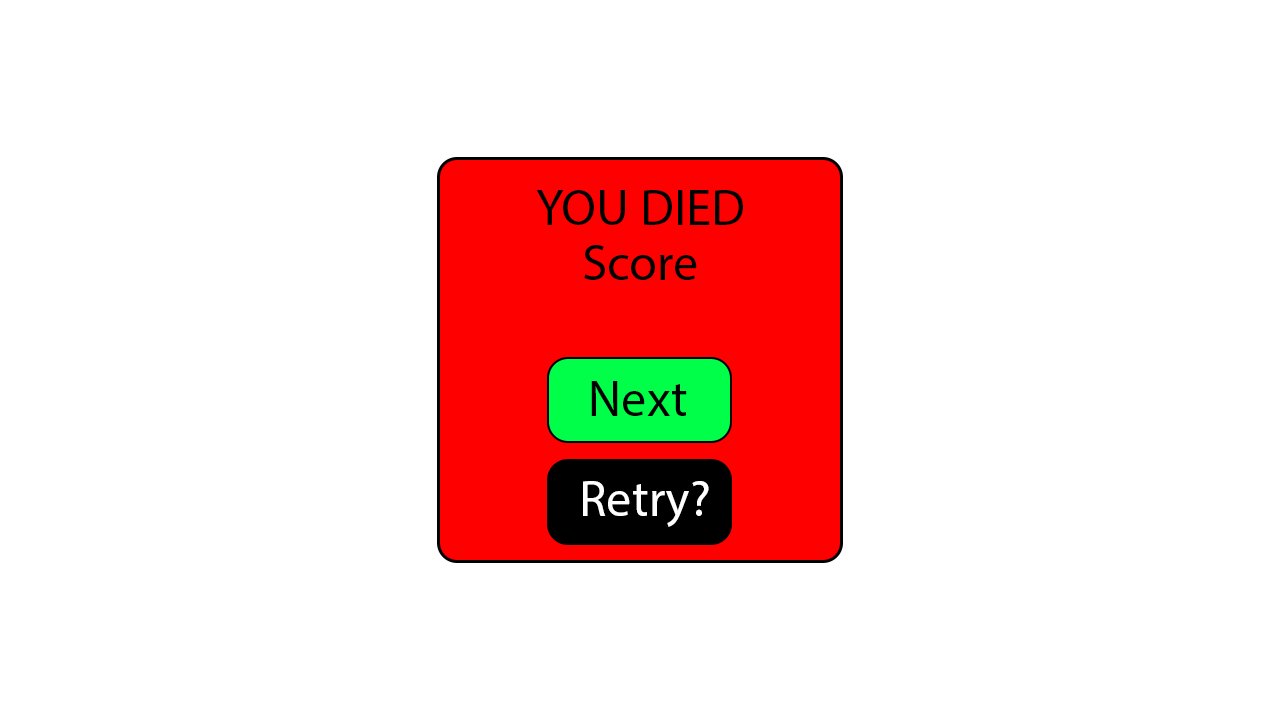
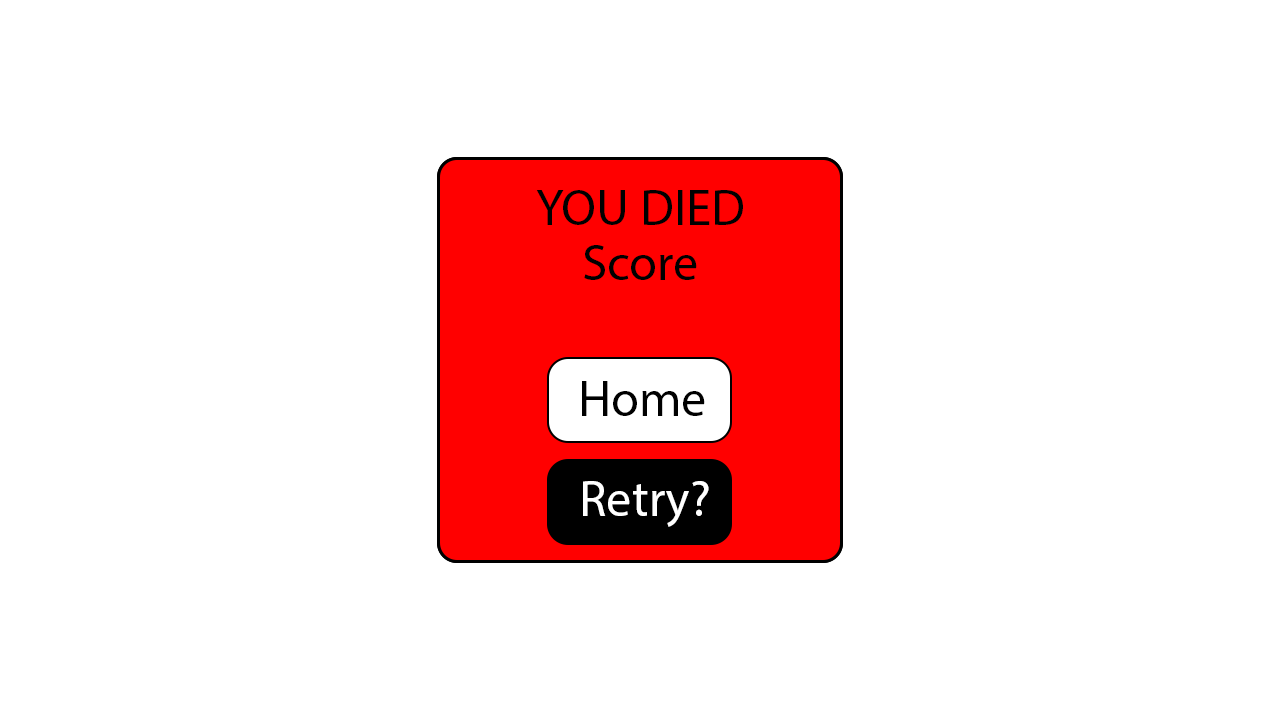
Merged Animations into Main

Changed region(s): [[0.4062, 0.4889, 0.5938, 0.6111]]

diff --git a/Src/gamelevel.c b/Src/gamelevel.c
@@ -36,7 +36,7 @@ int power = 0;
 
 //Text (Testing)
 float textTimer = 0;
-char textToShow[50] = {"Test"};
+char textToShow[50] = {"test"};
 
 int update_hp;
 int* hp = &update_hp;
@@ -97,6 +97,9 @@ void Game_Level_Init() {
 	BobWidth = CP_Image_GetWidth(Bob), BobHeight = CP_Image_GetHeight(Bob);
 	//Resets Timer/Health/Points/Multiplier/Bob Position/Unpause Game
 	gameTimer = 60.0, health = 3, points = 0, multiplier = 1, multiplierTimer = 5, multiplierCombo = 0; update_hp = 3;
+	textAbovePlayer(Bobx, Boby, "");
+	//Power Up Modifiers Reset
+	speedMultiplier = 1, maxJumpHeight = 200, BobImmune = FALSE;
 	gIsPaused = FALSE, BobDirection = FALSE; Bobx = 1280 / 2, Boby = 720 / 2;
 
 	//Base Platform
@@ -107,21 +110,16 @@ void Game_Level_Init() {
 void Game_Level_Update() {
 	//Main Code 
 	{
-		lostHealth(health, hp);
 		//Press P to Pause
 		gIsPaused = CP_Input_KeyTriggered(KEY_P) ? !gIsPaused : gIsPaused;
 		//Conditions for Pausing the Game (Dying, Time finish, Player Pause game)
 		gIsPaused = (health == 0 || gameTimer <= 0.10 || gIsPaused == TRUE || Boby > 720) ? TRUE : FALSE;
 		//Press Q to Terminate
 		CP_Input_KeyTriggered(KEY_Q) ? CP_Engine_Terminate() : 0;
-		//Draw Bob
-		//(BobDirection == FALSE) ? CP_Image_Draw(Bob, Bobx, Boby, CP_Image_GetWidth(Bob), CP_Image_GetHeight(Bob), 255)
-			//: CP_Image_Draw(BobL, Bobx, Boby, CP_Image_GetWidth(Bob), CP_Image_GetHeight(Bob), 255);
 		//Rendering
-		CP_Graphics_ClearBackground(CP_Color_Create(0, 0, 0, 255)), HUD(), drawPlatform();
+		CP_Graphics_ClearBackground(CP_Color_Create(0, 0, 0, 255));
 	
-		//Draw Bob At Any Position
-		drawBob(Bobx, Boby, BobDirection, BobImmune);
+
 
 		//Draw Chest
 		if (gameTimer <= 60 && gameTimer >= 40 || gameTimer <= 25 && gameTimer >= 20)
@@ -143,13 +141,12 @@ void Game_Level_Update() {
 		immune_timer -= CP_System_GetDt();
 		BobImmune = (immune_timer > 0) ? TRUE : FALSE;
 
-		/*
-		if (BobImmune == FALSE)
-		{
-			Bob = CP_Image_Load("Assets/Bob.png");
-			BobL = CP_Image_Load("Assets/BobL.png");
-		}*/
-
+		//Actual Game Code Flow
+		HUD();	//Display HUD
+		drawBob(Bobx, Boby, BobDirection, BobImmune); //Display Bob.
+		lostHealth(health, hp);
+		textAbovePlayer(Bobx, Boby, textToShow);
+		drawPlatform();
 		switch (gIsPaused) {
 		case TRUE: //Game is paused
 			Clear_Fail_Pause();				//Pause / Fail / Clear Screen
@@ -158,17 +155,10 @@ void Game_Level_Update() {
 		case FALSE: //Game not paused
 			playerMovement();				//Movement Input
 			scoreMultiplier();				//Score and Multiplier
-			gameTimer -= CP_System_GetDt();	//Game Timer Reduction
 			drawOrbs();						//Orbs and Points
-			textAbovePlayer(Bobx, Boby, textToShow);
+			gameTimer -= CP_System_GetDt();	//Game Timer Reduction
 			break;
 		}
-	}
-	//TESTCODE
-	{
-		//TO REMOVE: Test Health Increment and Cap at 3
-		CP_Input_KeyTriggered(KEY_1) && (health > 0) ? --health : NULL;	//CP_Input_KeyTriggered(KEY_1) can be replaced for collision w/ bomb
-		CP_Input_KeyTriggered(KEY_3) ? multiplierTimer = 5.00, points += 1 * multiplier, multiplierCombo++ : multiplierTimer;
 	}
 }
 
@@ -178,6 +168,7 @@ void Game_Level_Exit() {
 	CP_Sound_Free(explosion);
 	CP_Sound_Free(chestopen);
 }
+
 //rendering createPlatformXY();
 void drawPlatform() {
 	//Test Platform Appearing/Dissapearing
@@ -195,6 +186,10 @@ void drawPlatform() {
 	CP_Settings_RectMode(CP_POSITION_CORNER);
 	for (int i = 0; i < no_of_platforms; i++) {
 		CP_Settings_Fill(CP_Color_Create(255, 255, 255, 255));
+		if (level_selector == 2) {
+			if (i == 5) CP_Settings_Fill(CP_Color_Create(255, 0, 0, alpha));
+			else CP_Settings_Fill(CP_Color_Create(255, 255, 255, 255));
+		}
 		if (level_selector == 3) {
 			if (i == 2 || i == 3) CP_Settings_Fill(CP_Color_Create(255, 0, 0, alpha));
 			else CP_Settings_Fill(CP_Color_Create(255, 255, 255, 255));
@@ -426,14 +421,15 @@ void Clear_Fail_Pause(void) {
 		CP_Image_Draw(fail_screen, 0, 0, CP_Image_GetWidth(fail_screen), CP_Image_GetHeight(fail_screen), 255);
 		CP_Font_DrawText(Points, CP_System_GetWindowWidth() / 2, CP_System_GetWindowHeight() / 2 - 45);
 		if (CP_Input_MouseClicked()) {
+			//Btn to Return Home
 			if (isRectangleClicked(550, 360, 180, 80, CP_Input_GetMouseX(), CP_Input_GetMouseY())) {
-				level_selector = 2;
-				Game_Level_Init();
-				//TODO: LAUNCH NEW LEVEL
+				CP_Engine_SetNextGameState(Main_Menu_Init, Main_Menu_Update, Main_Menu_Exit);
+
 			}
+			//Btn to Retry
 			if (isRectangleClicked(550, 455, 180, 80, CP_Input_GetMouseX(), CP_Input_GetMouseY())) {
 				Game_Level_Init();
-				//TODO: RESTART LEVEL
+				
 			}
 		}
 	}

diff --git a/Src/animations.c b/Src/animations.c
@@ -1,5 +1,6 @@
 #include "animations.h"
 
+
 CP_Image glowdefault;
 CP_Image Bob, BobL;
 
@@ -59,6 +60,7 @@ void lostHealth(int hp, int *p) {
 		*p = hp;
 	}
 	if (flip) {
+		CP_Settings_RectMode(CP_POSITION_CORNER);
 		CP_Settings_Fill(CP_Color_Create(255, 0, 0, alpha));
 		CP_Graphics_DrawRect(0, 0, 1280, 720);
 		alpha -= 85 * CP_System_GetDt();

diff --git a/Src/mainmenu.c b/Src/mainmenu.c
@@ -64,6 +64,7 @@ void drawIntro() {
 
 void Main_Menu_Init()
 {
+	CP_Settings_ImageMode(CP_POSITION_CENTER);
 	CP_System_SetFrameRate(60);
 	CP_System_SetWindowSize(1280, 720);
 	CP_Settings_TextSize(50.0f);
